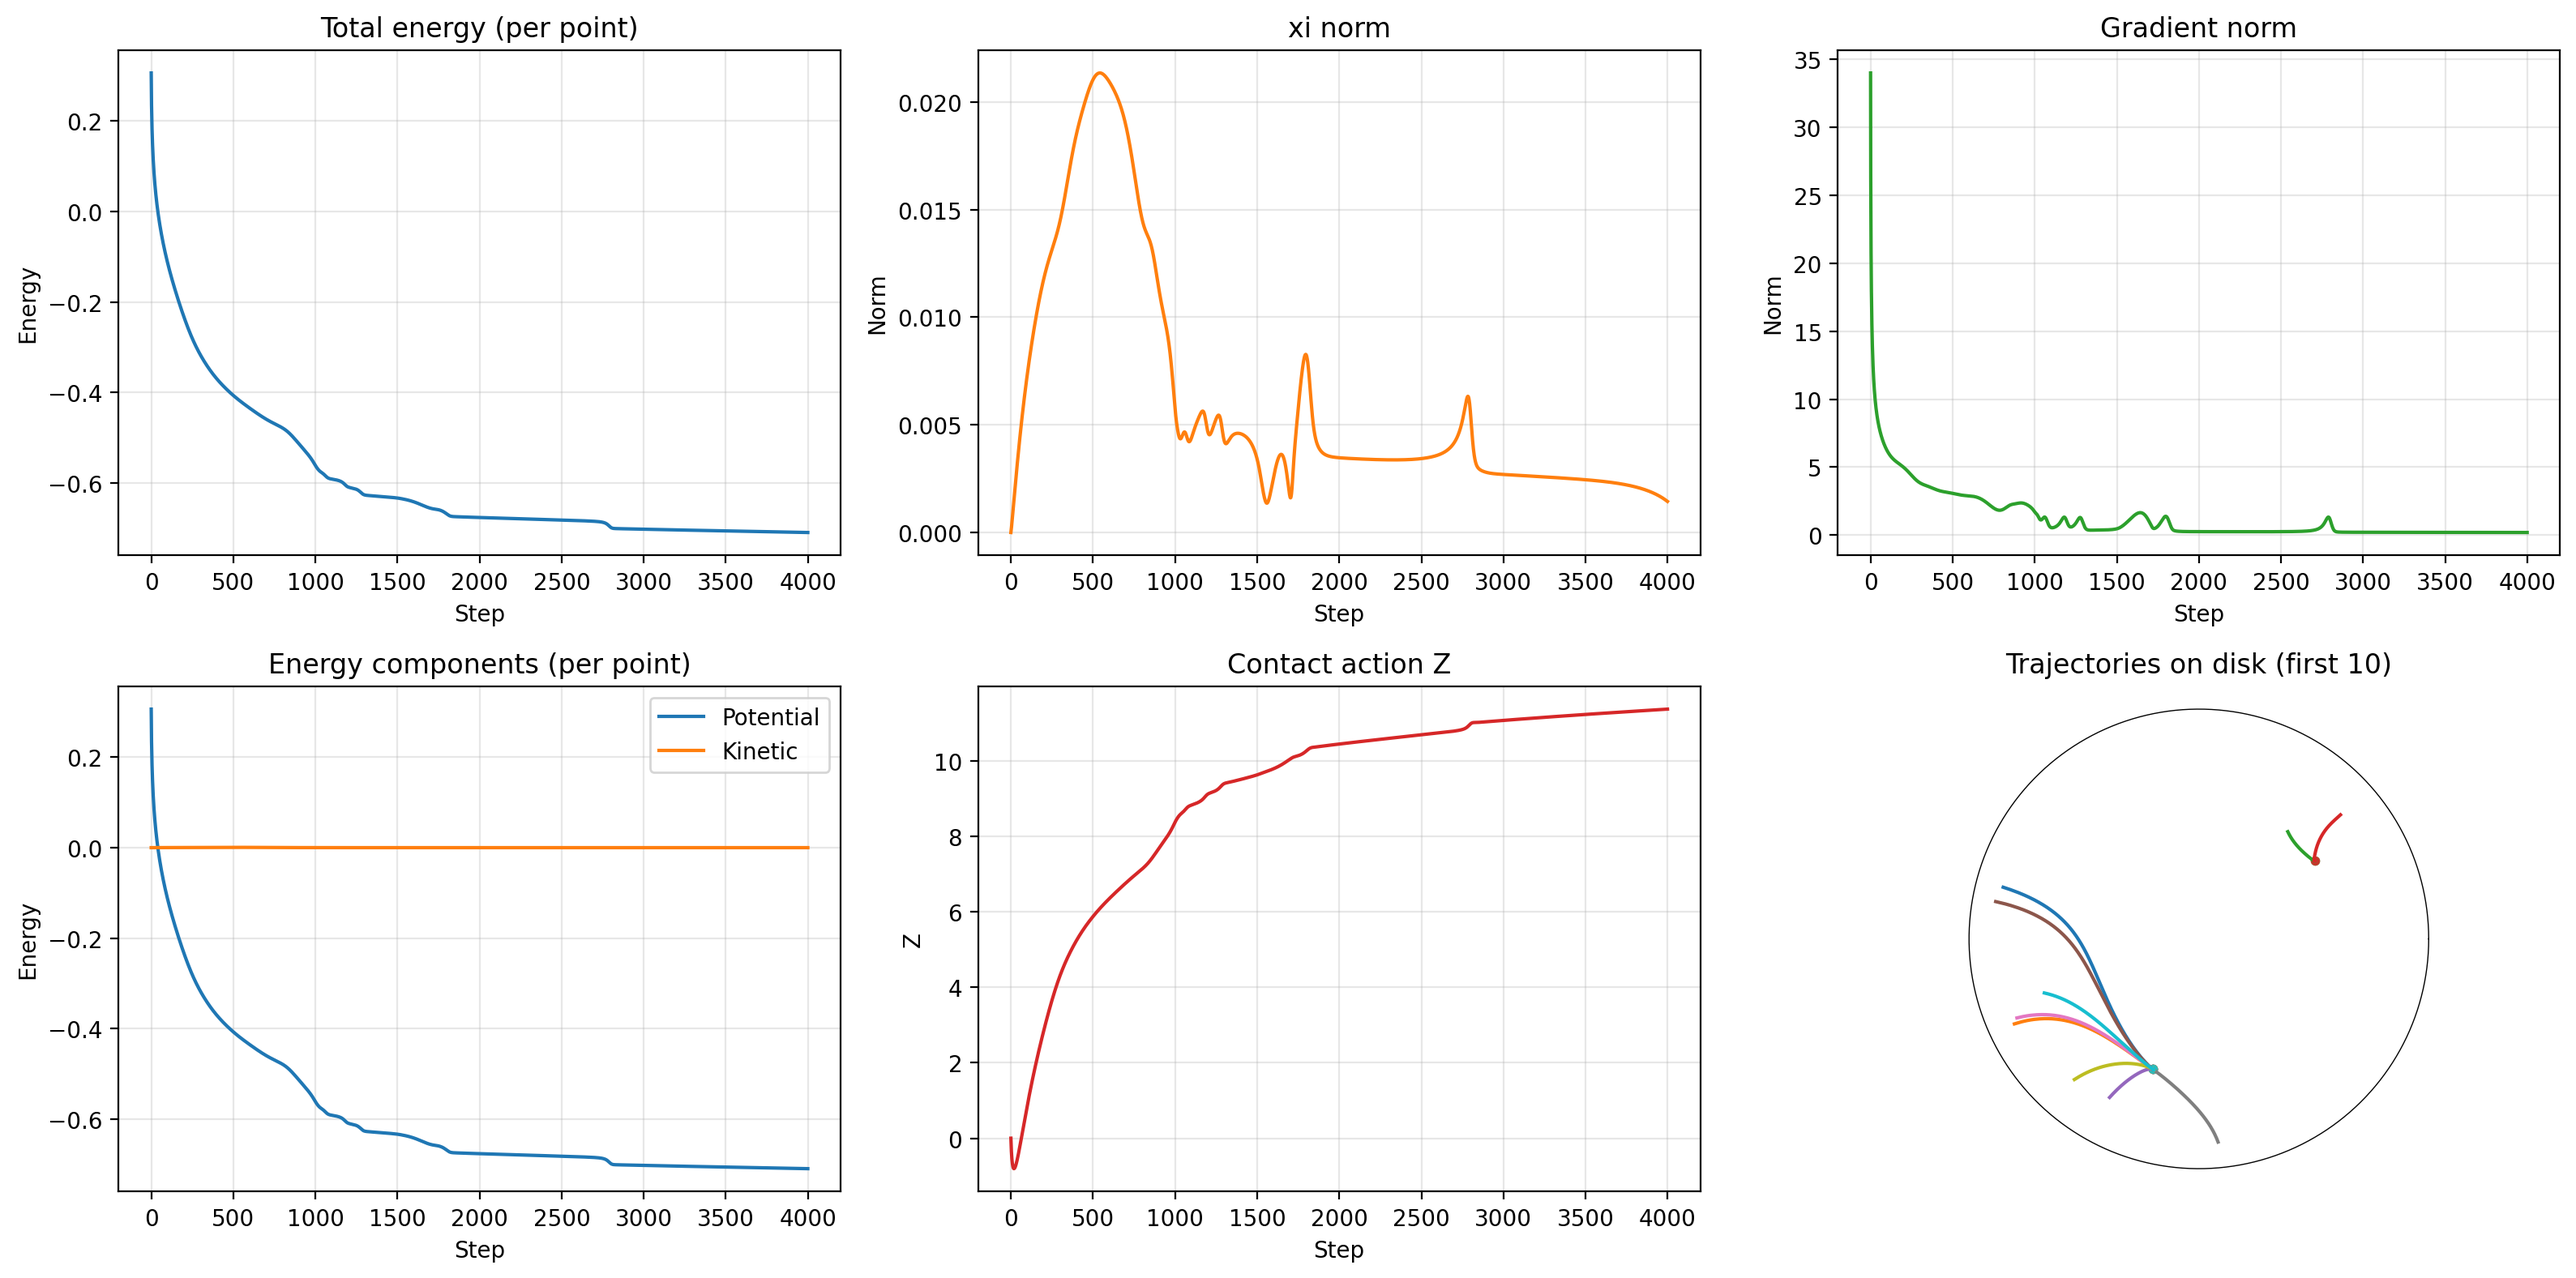
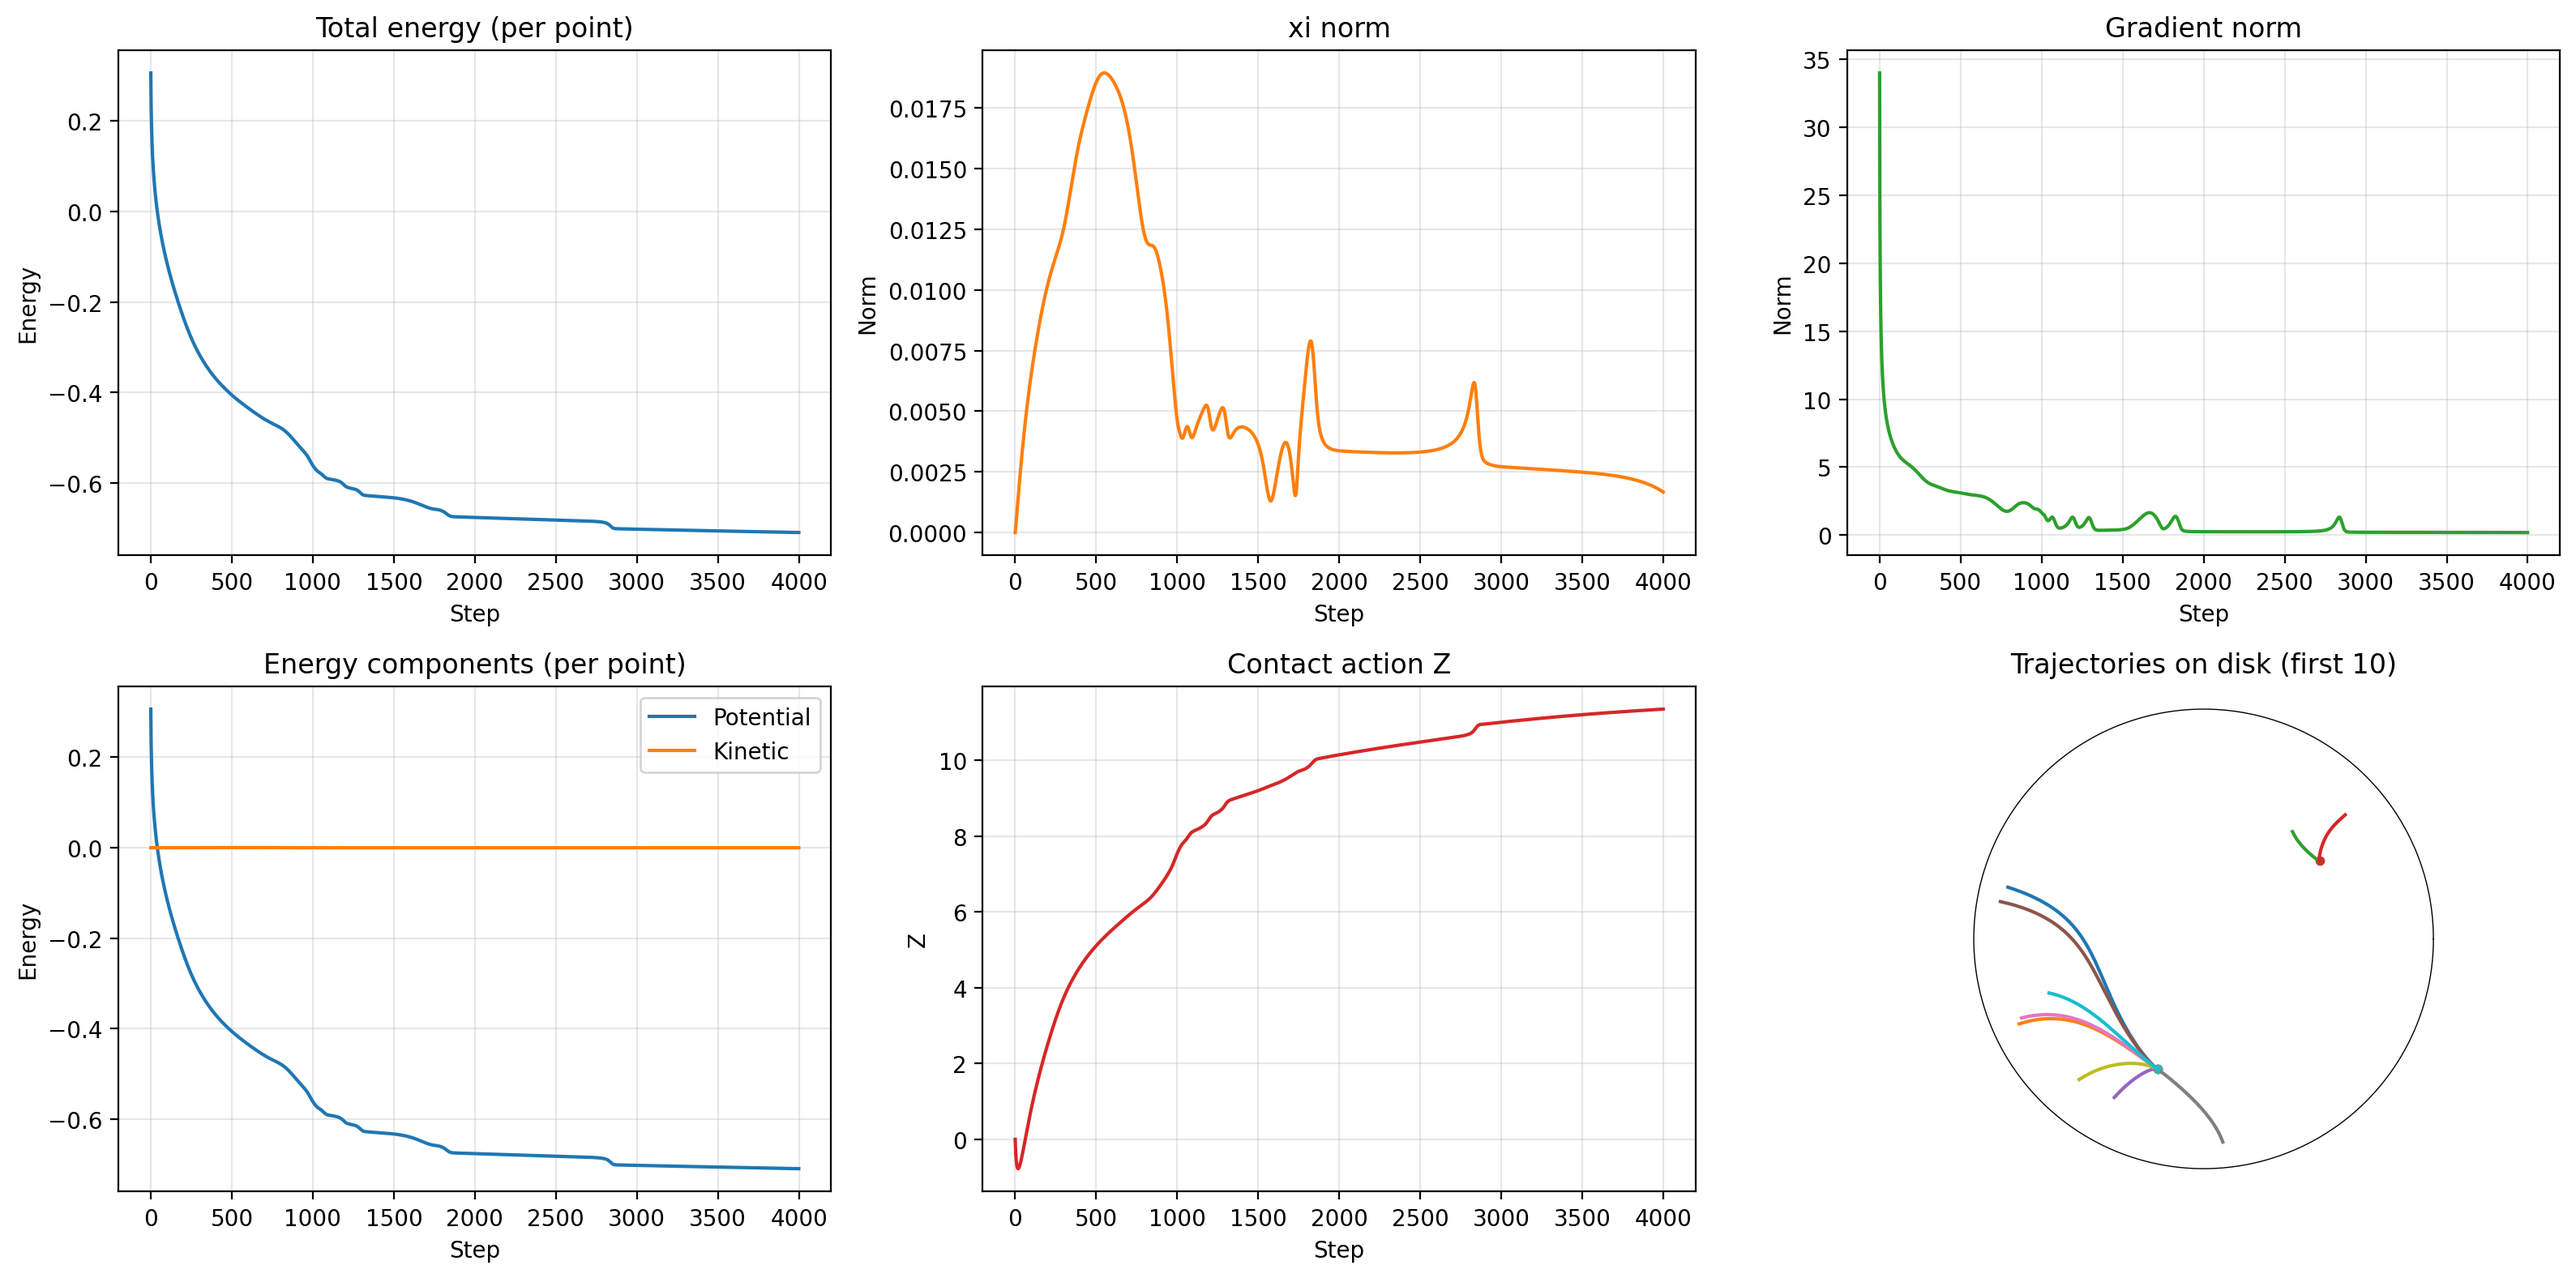
12·16-14：14

diff --git a/hei/simulation.py b/hei/simulation.py
@@ -14,6 +14,7 @@ from .geometry import (
     hyperbolic_karcher_mean_disk,
     sample_disk_hyperbolic,
 )
+from .lie import moebius_flow
 from .metrics import assign_nearest, pairwise_poincare
 from .diamond import aggregate_torque
 from .inertia import apply_inertia, locked_inertia_uhp
@@ -73,6 +74,9 @@ class SimulationLog:
     torque_norm: list[float]
     inertia_eig_min: list[float]
     inertia_eig_max: list[float]
+    rigid_speed2: list[float]
+    relax_speed2: list[float]
+    total_speed2: list[float]
 
 
 def gamma_from_geometry(z_uhp: ArrayLike) -> float:
@@ -100,6 +104,25 @@ def gamma_from_geometry(z_uhp: ArrayLike) -> float:
     return float(np.mean(gamma_field)) if gamma_field.size else 0.0
 
 
+def gamma_weighted_by_inertia(z_uhp: ArrayLike) -> float:
+    """
+    Mass/inertia-weighted damping: emphasize regions contributing more to rotation.
+
+    Uses disk radius r as a proxy for lever arm; blends local geometric damping
+    with inertia weights to avoid edge outliers freezing the system.
+    """
+    z_disk = cayley_uhp_to_disk(z_uhp)
+    r = np.abs(z_disk)
+    if r.size == 0:
+        return 0.0
+    r_safe = np.minimum(r, 0.95)
+    local_gamma = 2.0 / (1.0 - r_safe**2)
+    local_gamma += np.where(r > 0.85, 10.0 * (r - 0.85), 0.0)
+    weights = r * r + 1e-3  # inertia proxy
+    gamma_eff = np.sum(local_gamma * weights) / np.sum(weights)
+    return float(np.minimum(gamma_eff, 50.0))
+
+
 def make_force_fn(potential: PotentialOracle) -> Callable[[ArrayLike, float], NDArray[np.complex128]]:
     def force(z_uhp: ArrayLike, action: float) -> NDArray[np.complex128]:
         return -potential.dV_dz(z_uhp, action)
@@ -116,6 +139,9 @@ def run_simulation(
     rng = np.random.default_rng() if rng is None else rng
 
     pot = potential or build_baseline_potential(rng=rng)
+    # Force-disable annealing to keep wells active throughout simulation
+    if hasattr(pot, "anneal_beta"):
+        pot.anneal_beta = 0.0
     z_disk0 = sample_disk_hyperbolic(n=cfg.n_points, max_rho=cfg.max_rho, rng=rng)
     z_uhp0 = cayley_disk_to_uhp(z_disk0)
 
@@ -132,7 +158,7 @@ def run_simulation(
     integrator = ContactSplittingIntegrator(
         force_fn=force_fn,
         potential_fn=lambda z, action: pot.potential(z, action),
-        gamma_fn=lambda z_uhp: 0.0 if cfg.disable_dissipation else gamma_from_geometry(z_uhp),
+        gamma_fn=lambda z_uhp: 0.0 if cfg.disable_dissipation else gamma_weighted_by_inertia(z_uhp),
         config=IntegratorConfig(eps_disp=cfg.eps_dt, max_dt=cfg.max_dt, min_dt=cfg.min_dt, v_floor=cfg.v_floor),
     )
 
@@ -166,6 +192,9 @@ def run_simulation(
         torque_norm=[],
         inertia_eig_min=[],
         inertia_eig_max=[],
+        rigid_speed2=[],
+        relax_speed2=[],
+        total_speed2=[],
     )
 
     for _ in range(cfg.steps):
@@ -181,6 +210,15 @@ def run_simulation(
             scale = np.maximum(1.0, mag / cfg.force_clip)
             grad = grad / scale
         forces = -grad
+        # Hyperbolic velocity diagnostics (per-point mean squared speed)
+        y = np.maximum(np.imag(state.z_uhp), 1e-9)
+        rigid_vel = moebius_flow(state.xi, state.z_uhp)
+        relax_eta = getattr(integrator.config, "relax_eta", 0.0)
+        relax_vel = relax_eta * forces
+        rigid_speed2 = float(np.mean((np.abs(rigid_vel) ** 2) / (y * y)))
+        relax_speed2 = float(np.mean((np.abs(relax_vel) ** 2) / (y * y)))
+        total_speed2 = float(np.mean((np.abs(rigid_vel + relax_vel) ** 2) / (y * y)))
+
         torque_now = aggregate_torque(state.z_uhp, forces)
         potential_energy = pot.potential(state.z_uhp, state.action)
         n_pts = state.z_uhp.size
@@ -285,6 +323,9 @@ def run_simulation(
             log.bridge_ratio.append(0.0)
             log.ratio_break.append(0.0)
             log.beta_series.append(0.0)
+        log.rigid_speed2.append(rigid_speed2)
+        log.relax_speed2.append(relax_speed2)
+        log.total_speed2.append(total_speed2)
 
         prev_state = state
         state = integrator.step(state)

diff --git a/hei/plot_results.py b/hei/plot_results.py
@@ -47,6 +47,9 @@ def plot_log(
     bridge_ratio: list[float] | None = None,
     ratio_break: list[float] | None = None,
     beta_series: list[float] | None = None,
+    rigid_speed2: list[float] | None = None,
+    relax_speed2: list[float] | None = None,
+    total_speed2: list[float] | None = None,
 ) -> None:
     """Plot energy/xi norms/grad and trajectories on the disk."""
     steps = len(energy)
@@ -246,6 +249,23 @@ def plot_log(
         plt.close(fig_dyn)
         print(f"Saved silhouette overlay plot to {dyn_path}")
 
+    if rigid_speed2 is not None and relax_speed2 is not None:
+        fig_speed, ax_speed = plt.subplots(1, 1, figsize=(6, 3))
+        ax_speed.plot(rigid_speed2, label="rigid |v|_g^2", color="tab:blue")
+        ax_speed.plot(relax_speed2, label="relax |v|_g^2", color="tab:orange")
+        if total_speed2 is not None:
+            ax_speed.plot(total_speed2, label="total |v|_g^2", color="tab:green")
+        ax_speed.set_title("Hyperbolic mean squared speeds")
+        ax_speed.set_xlabel("Step")
+        ax_speed.set_ylabel("Mean |v|_g^2")
+        ax_speed.grid(True, alpha=0.3)
+        ax_speed.legend()
+        fig_speed.tight_layout()
+        speed_path = out_path.with_name(out_path.stem + "_speed.png")
+        fig_speed.savefig(speed_path, dpi=200, bbox_inches="tight")
+        plt.close(fig_speed)
+        print(f"Saved speed plot to {speed_path}")
+
     if hier_series is not None:
         fig_hier, axh = plt.subplots(1, 4, figsize=(16, 3))
         axh[0].plot(hier_series["mean_depth"])
@@ -384,6 +404,9 @@ def main() -> None:
         bridge_ratio=log.bridge_ratio if hasattr(log, "bridge_ratio") else None,
         ratio_break=log.ratio_break if hasattr(log, "ratio_break") else None,
         beta_series=log.beta_series if hasattr(log, "beta_series") else None,
+        rigid_speed2=log.rigid_speed2 if hasattr(log, "rigid_speed2") else None,
+        relax_speed2=log.relax_speed2 if hasattr(log, "relax_speed2") else None,
+        total_speed2=log.total_speed2 if hasattr(log, "total_speed2") else None,
     )
 
     if args.metrics_out:

diff --git a/hei/integrator.py b/hei/integrator.py
@@ -42,6 +42,7 @@ class IntegratorConfig:
     xi_clip: float = 200.0  # cap on |xi| to avoid blow-up
     step_clip: float = 5.0  # cap on |xi|*dt to avoid huge exp
     relax_eta: float = 0.2  # structural relaxation strength on -∇V term (fluid deformation)
+    dt_damping_safety: float = 1.5  # allow h*gamma up to ~dt_damping_safety for semi-implicit stability
 
 
 class ContactSplittingIntegrator:
@@ -119,8 +120,9 @@ class ContactSplittingIntegrator:
         denom = max(1e-9, xi_norm + self.config.torque_dt_scale * torque_norm)
         dt_geo = self.config.eps_disp / denom
         gamma_curr = state.gamma_last if state.gamma_last > 0 else 1.0
-        SAFETY_FACTOR = 0.5
-        dt_thermo = SAFETY_FACTOR / gamma_curr
+        # allow semi-implicit scheme to tolerate larger h*gamma before cutting dt
+        SAFETY_FACTOR = self.config.dt_damping_safety
+        dt_thermo = SAFETY_FACTOR / (gamma_curr + 1e-9)
         dt = min(self.config.max_dt, dt_geo, dt_thermo)
         dt = max(dt, self.config.min_dt)
         z_trial = state.z_uhp
